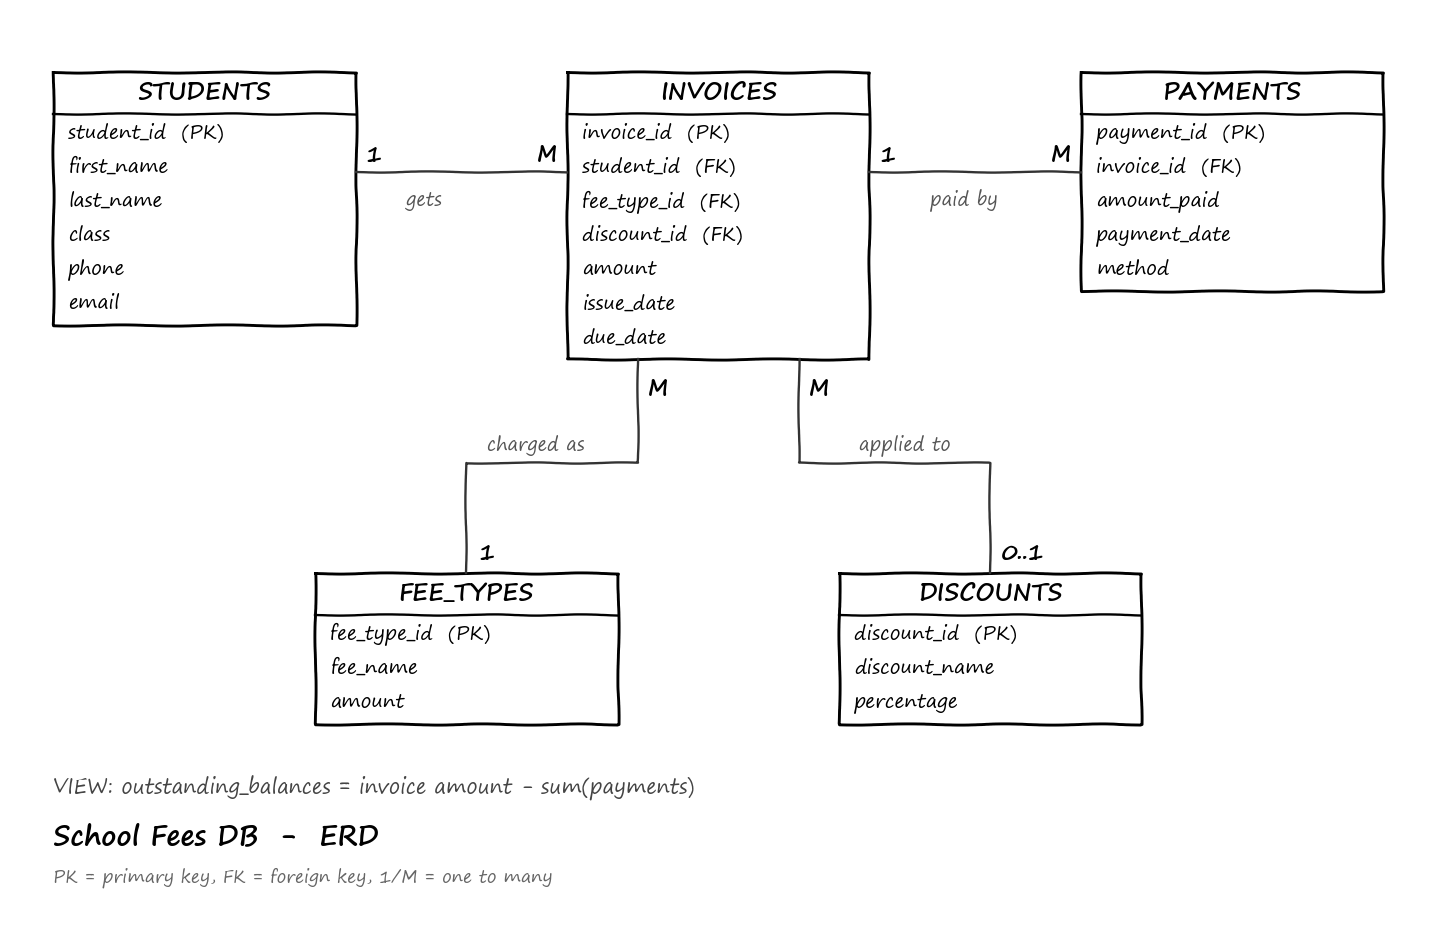
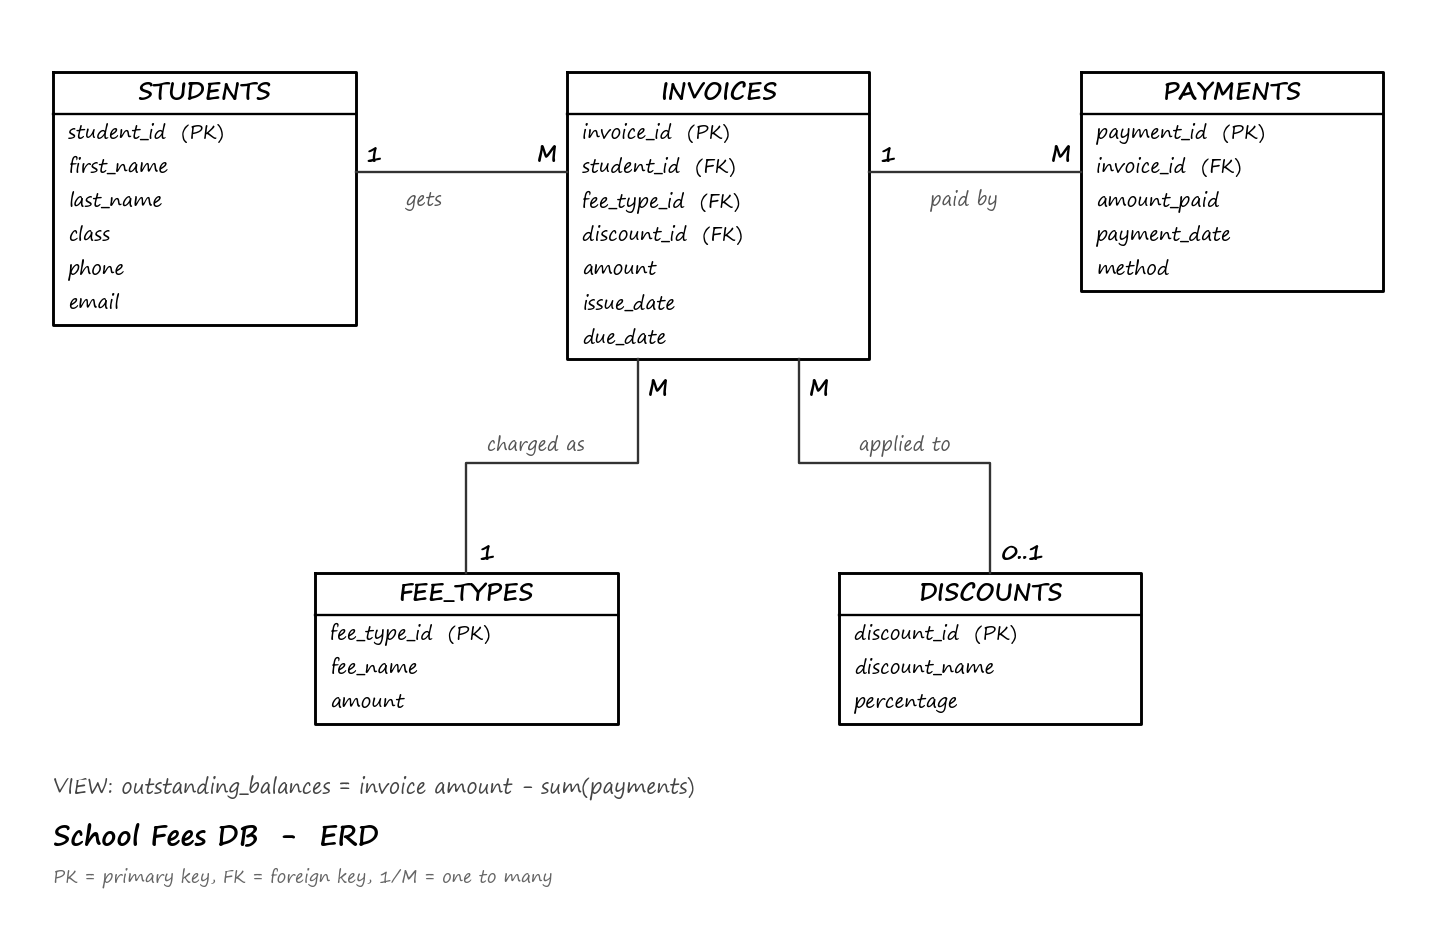
Switch to PostgreSQL and redraw ERD with straight lines

diff --git a/README.md b/README.md
@@ -2,7 +2,7 @@
 
 Weekly deliverable (B3). A simple database for managing students, fee types, invoices, payments, discounts and outstanding balances.
 
-Built with **SQLite**, so no server is needed.
+Built with **PostgreSQL**.
 
 ## Files
 
@@ -11,7 +11,6 @@ Built with **SQLite**, so no server is needed.
 | `schema.sql` | Creates the tables and the `outstanding_balances` view |
 | `seed.sql` | Sample data (6 students, 4 fee types, 3 discounts, 11 invoices, 9 payments) |
 | `queries.sql` | Report queries |
-| `school_fees.db` | Ready-made database with the sample data loaded |
 | `erd.png` | ERD diagram |
 
 ## ERD
@@ -46,14 +45,15 @@ Built with **SQLite**, so no server is needed.
 
 ## How to run
 
-Using the sqlite3 command line:
+Using psql:
 
 ```bash
-sqlite3 school_fees.db < schema.sql
-sqlite3 school_fees.db < seed.sql
-sqlite3 -header -column school_fees.db < queries.sql
+createdb -U postgres school_fees
+psql -U postgres -d school_fees -f schema.sql
+psql -U postgres -d school_fees -f seed.sql
+psql -U postgres -d school_fees -f queries.sql
 ```
 
-Or open `school_fees.db` in [DB Browser for SQLite](https://sqlitebrowser.org/) and run the queries from `queries.sql` in the "Execute SQL" tab.
+Or in pgAdmin: create a database called `school_fees`, open the Query Tool, then run `schema.sql`, `seed.sql` and `queries.sql` in that order.
 
-> Note: the overdue query uses `date('now')`, so the results depend on the day you run it.
+> Note: the overdue query uses `CURRENT_DATE`, so the results depend on the day you run it.
